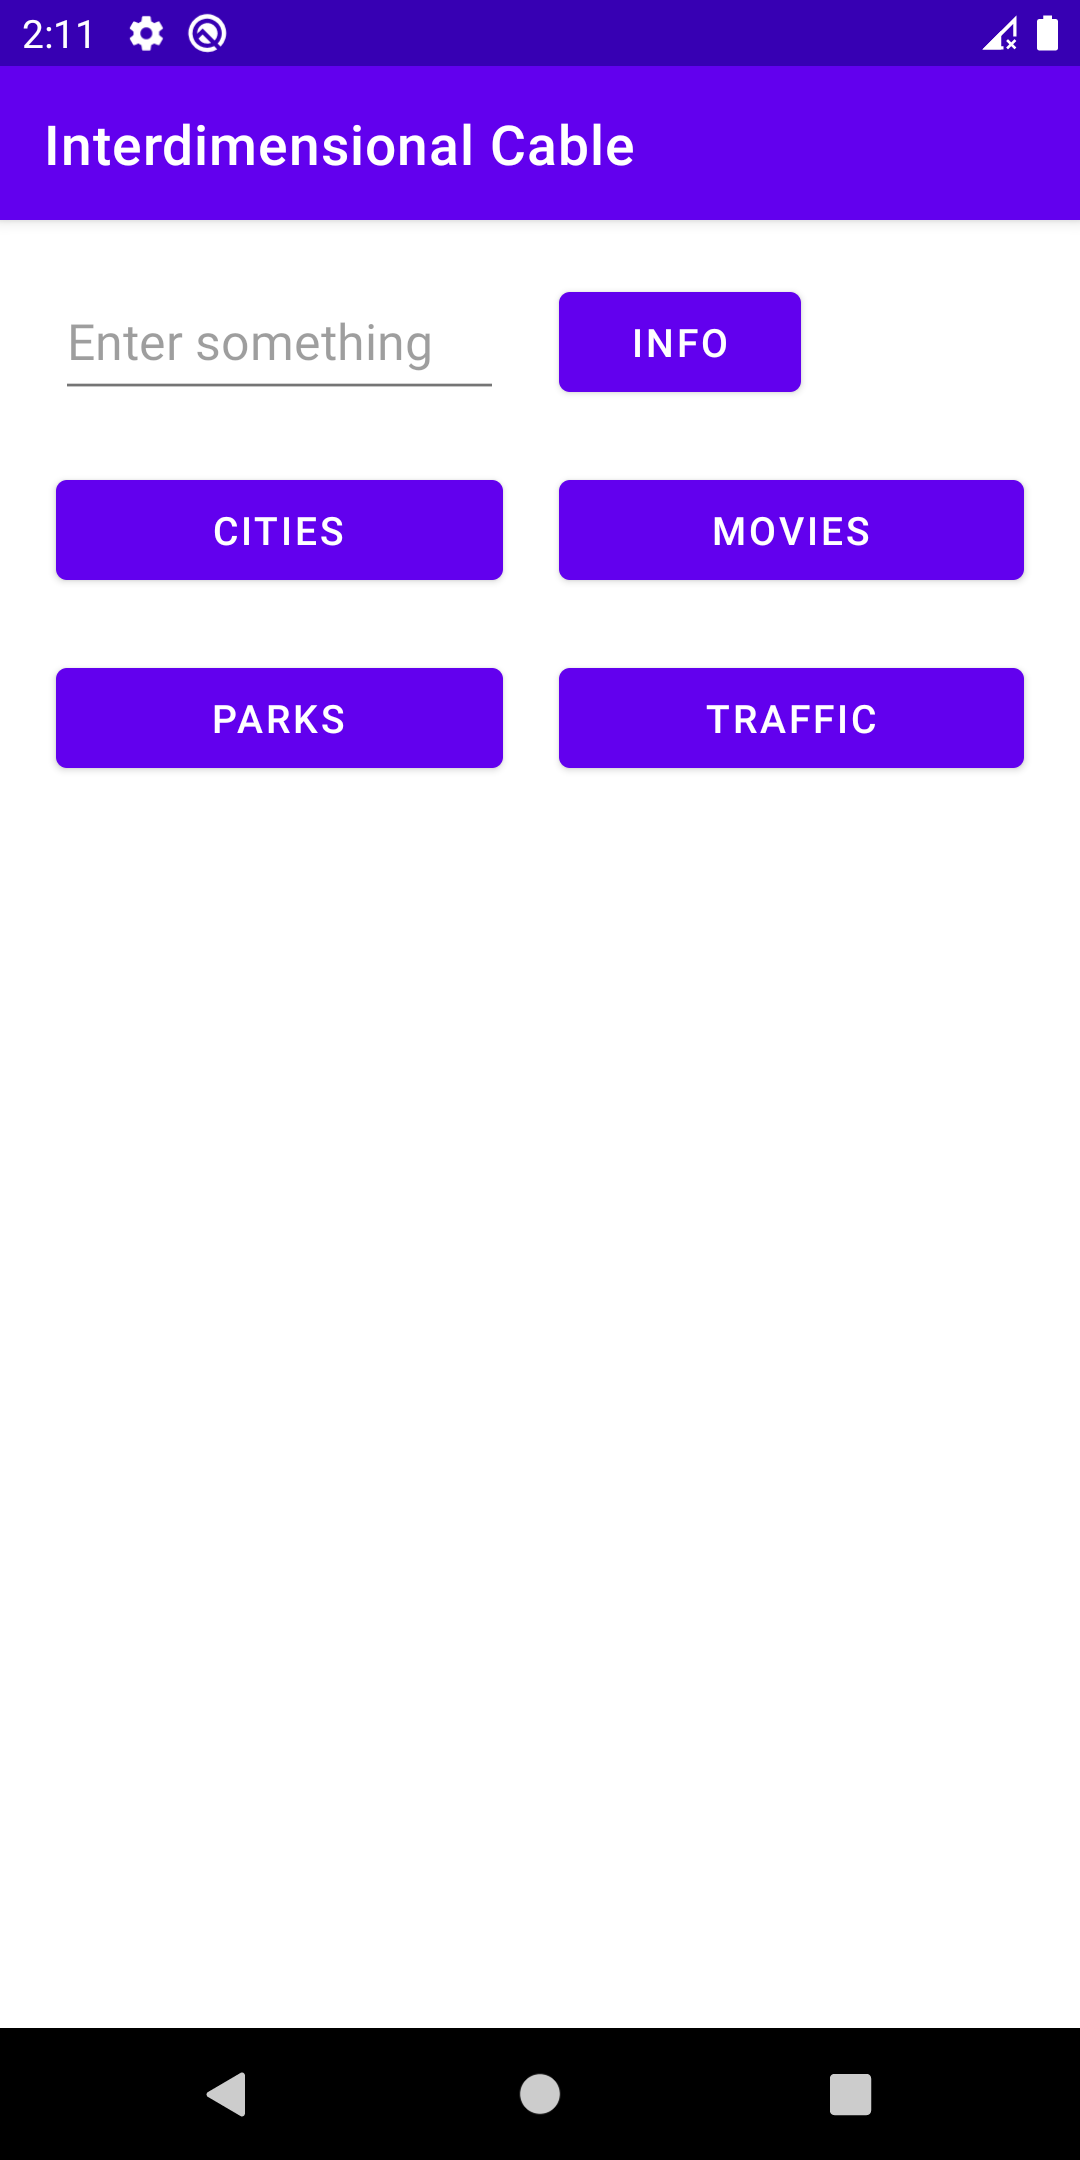
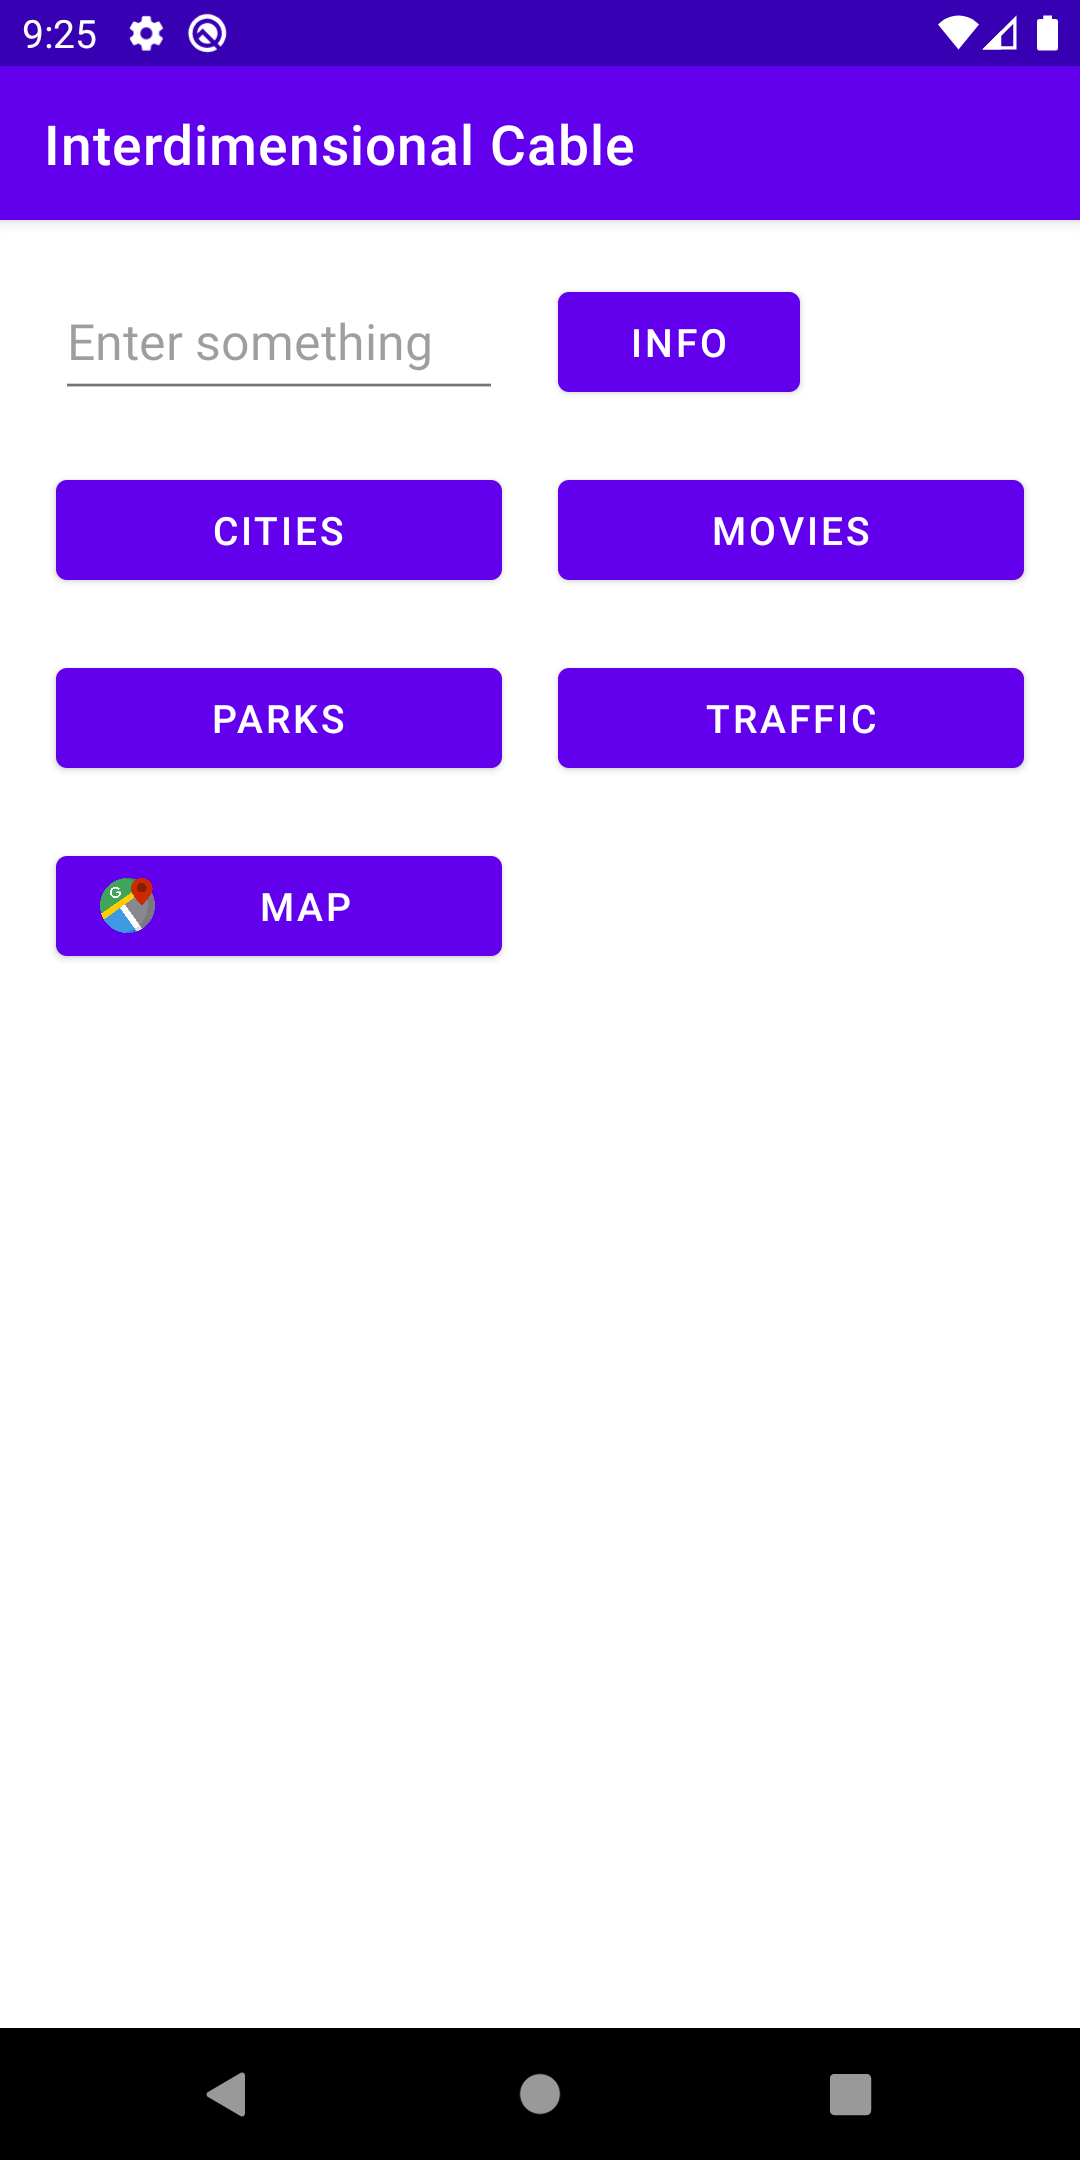
hw 5 FINAL, updated README, added screenshots

diff --git a/README.md b/README.md
@@ -1,10 +1,21 @@
-# Currently on: HW 4 Live Cams
+# Currently on: HW 5 Location, Location, Location
 
-Practice making API requests with Retrofit & GSON, model JSON response into Kotlin Data Classes, checking network status and handling graceful failure
+Practice integrating Google Map fragment, requesting user permission at runtime, accessing device location, and using Geocoder to transform LatLng into addresses
 
 Screenshots:
 
-<img src="screenshots/traffic-cams.png" width="300xp"/>
+<img src="screenshots/map.png" width="300px" />
+<img src="screenshots/map-permission.png" width="300px" />
+
+--------
+
+## HW 4 Live Cams
+
+Practice making API requests with Retrofit & GSON, model JSON response into Kotlin Data Classes, checking network status and handling failure gracefully
+
+Screenshots:
+
+<img src="screenshots/traffic-cams.png" width="300px"/>
 <img src="screenshots/traffic-loading.png" width="300px" />
 <img src="screenshots/traffic-no-connection.png" width="300px" />
 
